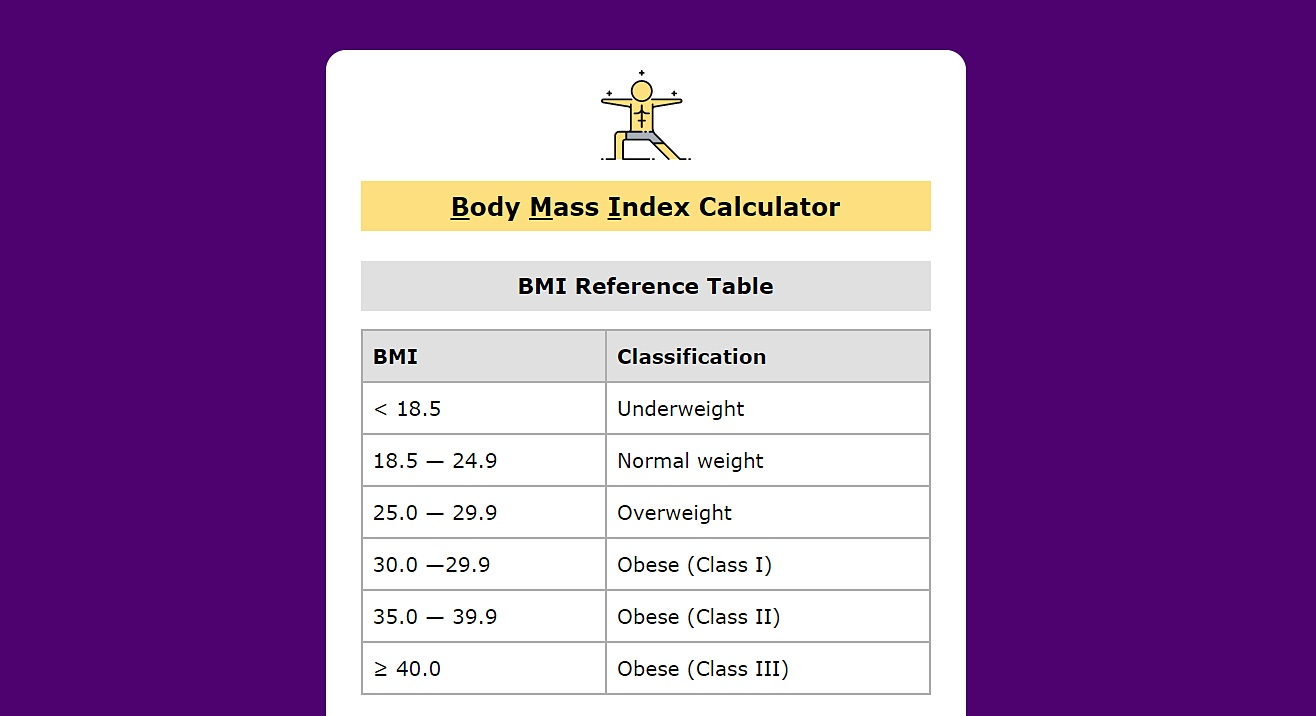
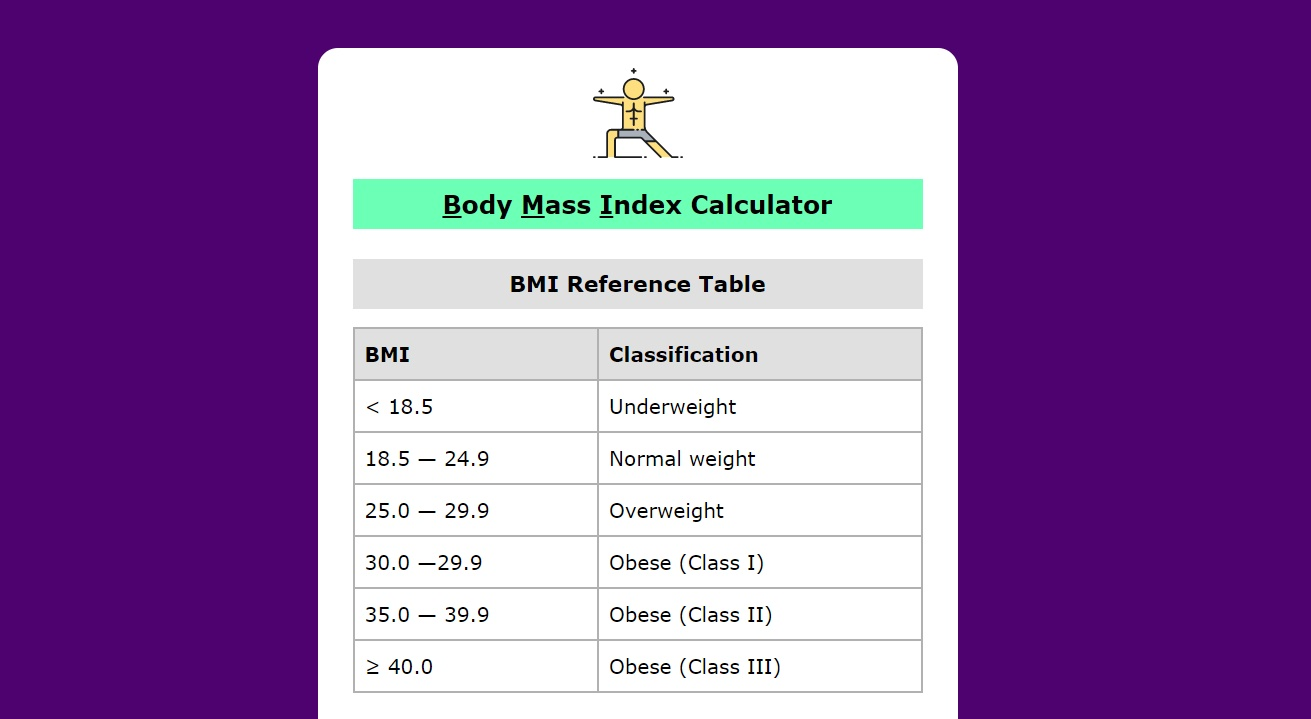
Screenshots update

Changed region(s): [[0.2441, 0.0615, 0.7323, 1.0], [0.7018, 0.3687, 0.7323, 0.4302]]

diff --git a/assets/css/styles.css b/assets/css/styles.css
@@ -45,7 +45,7 @@ button
 {
   text-align: center;
   font-size: 2.5rem;
-  background: var(--yellow-color);
+  background: var(--green-color);
   padding: 1rem;
   margin-bottom: 3rem;
 }
@@ -98,7 +98,7 @@ table tbody td
   background: #fff;
   padding: 3.5rem;
   padding-top: 2rem;
-  padding-bottom: 2rem;
+  padding-bottom: 3rem;
   border-radius: 2rem;
 }
 

diff --git a/index.html b/index.html
@@ -76,8 +76,6 @@
             <button type="submit"><span id="buttonTitle">Calculate</span></button>
         </form>
 
-        <!-- <h2 class="h2">Results:</h2> -->
-
         <div id="result">
 
         </div>

diff --git a/README.md b/README.md
@@ -1,4 +1,4 @@
-# Body Mass Index Calculator built with HTML, CSS and JavaScript
+# Body Mass Index Calculator built with JavaScript (Vanilla JS)
 
 This project calculates the Body Mass Index (BMI) based on the standard BMI reference table that uses the weight in kilograms and height in meters to generate the results. The BMI Calculator was coded in HTML, CSS and JavaScript.
 
@@ -6,13 +6,13 @@ This project calculates the Body Mass Index (BMI) based on the standard BMI refe
 
 **coming soon**
 
-## Screenshot 1: Intro Template
+## Screenshot 1
 
-![Screenshot](assets/img/screenshots/Screenshot_1.jpg)
+![Screenshot](assets/img/Screenshot_1.jpg)
 
-## Screenshot 2: Flexbox Template
+## Screenshot 2
 
-![Screenshot](assets/img/screenshots/Screenshot_2.jpg)
+![Screenshot](assets/img/Screenshot_2.jpg)
 
 ## Technology Stack
 
